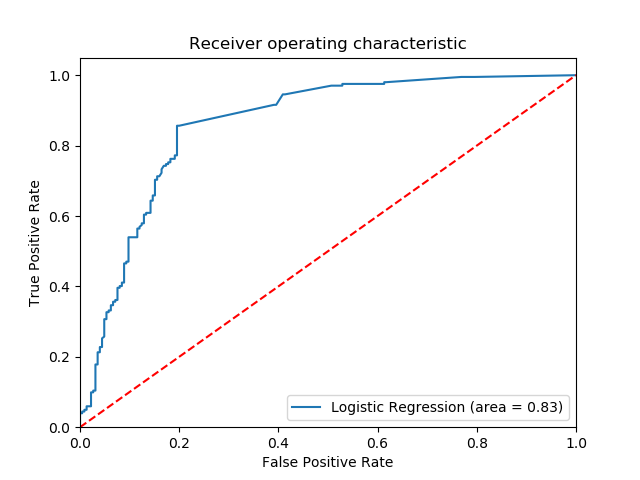
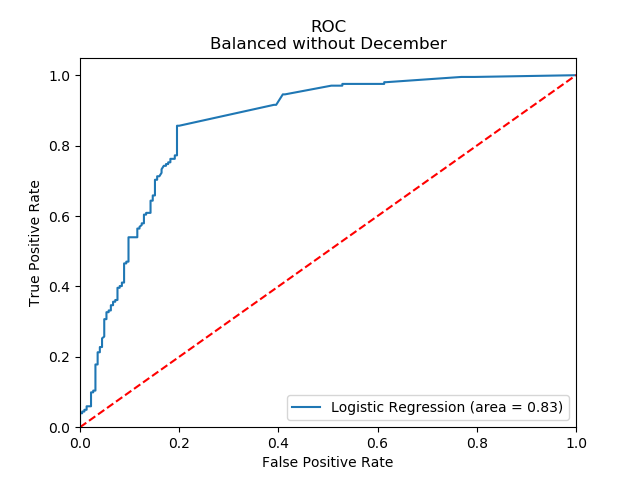
fixed more graphs

Changed region(s): [[0.2812, 0.0312, 0.7188, 0.125]]

diff --git a/src/db_basic_data_stats.py b/src/db_basic_data_stats.py
@@ -56,7 +56,6 @@ def logistic_regression(df):
     coef_list['sort'] = coef_list.estimatedCoefficients.abs()
     print(coef_list.sort_values(by='sort', ascending=False))
     print(f'Estimated intercept: {logreg.intercept_}')
-    print_roc_curve(y_test, logreg, X_test)
 
     print("With KFold cross validation")
     kfold = model_selection.KFold(n_splits=10, random_state=7)
@@ -72,7 +71,12 @@ def logistic_regression(df):
     print(f"10-fold cross validation average precision: {results.mean():.2f}")
     print(classification_report(y_test, y_pred))
 
-    print_roc_curve(y_test, logreg, X_test)
+    print_roc_curve(y_test, logreg, X_test, 'Standard Logistic')
+    plt.scatter(logreg.predict_proba(X_test)[:,1], y_pred)
+    plt.title("Active YN Probability\nStandard Logistic")
+    plt.xlabel('Predicted Probability')
+    plt.ylabel('Actual Probability')
+    plt.show()
 
 
 def logistic_balanced(df):
@@ -102,7 +106,6 @@ def logistic_balanced(df):
     coef_list['sort'] = coef_list.estimatedCoefficients.abs()
     print(coef_list.sort_values(by='sort', ascending=False))
     print(f'Estimated intercept: {logreg.intercept_}')
-    print_roc_curve(y_test, logreg, X_test)
 
     print("With KFold cross validation")
     kfold = model_selection.KFold(n_splits=10, random_state=7)
@@ -118,9 +121,14 @@ def logistic_balanced(df):
     print(f"10-fold cross validation average precision: {results.mean():.2f}")
     print(classification_report(y_test, y_pred))
 
-    print_roc_curve(y_test, logreg, X_test)
+    print_roc_curve(y_test, logreg, X_test, 'Balanced without December')
+    plt.scatter(logreg.predict_proba(X_test)[:,1], y_pred)
+    plt.title("Active YN Probability\nBalanced without December")
+    plt.xlabel('Predicted Probability')
+    plt.ylabel('Actual Probability')
+    plt.show()
 
-def print_roc_curve(y_test, logreg, X_test):
+def print_roc_curve(y_test, logreg, X_test, title):
     logit_roc_auc = roc_auc_score(y_test, logreg.predict(X_test))
     fpr, tpr, thresholds = roc_curve(y_test, logreg.predict_proba(X_test)[:,1])
     plt.figure()
@@ -130,9 +138,9 @@ def print_roc_curve(y_test, logreg, X_test):
     plt.ylim([0.0, 1.05])
     plt.xlabel('False Positive Rate')
     plt.ylabel('True Positive Rate')
-    plt.title('Receiver operating characteristic')
+    plt.title(f'ROC\n{title}')
     plt.legend(loc="lower right")
-    plt.savefig('Log_ROC')
+    #plt.savefig('Log_ROC')
     plt.show()
 
 def linear_regression(df):
@@ -760,7 +768,7 @@ user_profile_df['estimated_created_date'] = user_profile_df['estimated_created_d
 
 #dec_vs_other_months(user_profile_df[['user_id','user_active_yn','user_activity_score', 'user_activity_cnt', 'days_active', 'days_inactive', 'estimated_created_date']])
 
-lasso_attempt(user_profile_df.drop(['user_id','estimated_created_date'],axis=1))
+#lasso_attempt(user_profile_df.drop(['user_id','estimated_created_date'],axis=1))
 
 
 # plt.hist(user_profile_df['user_active_yn'] )
@@ -768,8 +776,8 @@ lasso_attempt(user_profile_df.drop(['user_id','estimated_created_date'],axis=1))
 # plt.show()
 
 
-#logistic_regression(user_profile_df)
-#logistic_balanced(user_profile_df)
+logistic_regression(user_profile_df)
+logistic_balanced(user_profile_df.loc[user_profile_df['estimated_created_date'].dt.month < 12])
 #linear_regression(user_profile_df.loc[user_profile_df['user_active_yn']==1])
 
 #dec_vs_other_months(user_profile_df[['user_id','user_active_yn','user_activity_score', 'user_activity_cnt', 'days_active', 'days_inactive', 'estimated_created_date']])
